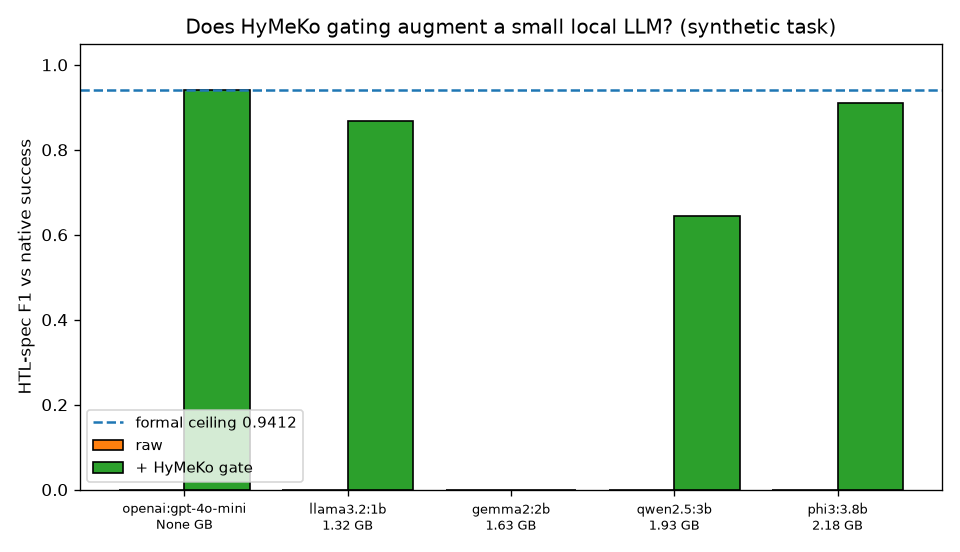
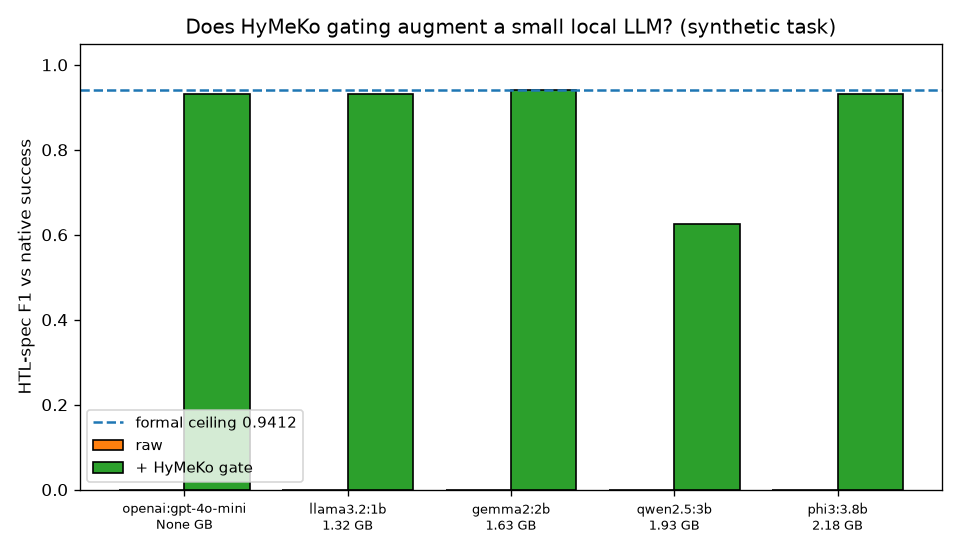
spec_bench: reduce conjunct-pruning to a hymeko_pgraph SSG solution (fixes gemma 0 -> 0.94)
The calibration-only arbiter fixed thresholds but not signal choice (gemma stuck at 0 on a noise conjunct).
Reduce the structure-refinement to a P-graph solution on OUR hymeko_pgraph crate: signals -> raw materials,
each candidate predicate -> an operating unit (-signal, +success), success -> product; emit .hymeko, run
`pgraph solve --algorithm ssg --json`, rank the feasible solution structures by verification F1. SSG enumerates,
F1 selects. No external P-graph lib, no re-implementation (crate via CLI); Python exhaustive-subset fallback if
the binary is unbuilt.

Result (synthetic, + P-graph pruning): gemma2:2b 0.000 -> 0.940 (drops grasp_success/near_object noise conjuncts
-> F(obj_to_target<=0.118)); llama3.2:1b 0.868->0.930, phi3 0.909->0.930; 4/5 models incl a 1.3GB local one at
~0.93 = the ceiling. qwen dip is its G(F(...)) temporal nesting, not pruning.

Honest scope: on the toy (<=4 predicates) SSG ~ powerset (== exhaustive); the P-graph's ABB axiom-bounding value
is at scale (real coffee-push). Establishes the reduction is correct + wired to our crate. NON-claims unchanged:
synthetic; not "HyMeKo beats LLMs". Division of labour complete: LLM=structure, HyMeKo=repair+calibration+SSG-prune.
18 tests green; ruff+mypy clean; CORE untouched; no new deps.

diff --git a/hymeko_rl/eval/spec_bench/pgraph_refine.py b/hymeko_rl/eval/spec_bench/pgraph_refine.py
@@ -1,0 +1,99 @@
+"""Reduce spec strategy-search + conjunct-pruning to a P-graph solution — on our ``hymeko_pgraph`` crate.
+
+The arbiter's structure-refinement (which of the LLM's candidate predicates to keep) is a *solution-structure
+search*: the minimal feasible subset of predicates that produces the success decision. That is exactly P-graph SSG
+(Friedler et al.): map **signals → raw materials**, each **candidate predicate → an operating unit** that consumes
+its signal and produces the **success** product; ``hymeko_pgraph``'s SSG enumerates the combinatorially-feasible
+solution structures, and we rank them by F1 on the verification split. This fixes what threshold calibration cannot
+(dropping a *noise-signal* conjunct — the gemma limit): SSG enumerates the subset without it, F1 selects it.
+
+Uses our crate via its CLI (``pgraph solve … --algorithm ssg --json`` on a generated ``.hymeko``) — no external
+P-graph library, no re-implementation (§6.1). Falls back to an exhaustive Python subset search if the binary is
+unbuilt (numerically identical for small pools; the P-graph's combinatorial/axiom value is at scale).
+"""
+from __future__ import annotations
+
+import itertools
+import json
+import re
+import subprocess
+import tempfile
+from pathlib import Path
+
+from hymeko_rl.eval.spec_bench.spec_bench import _PRED, Rollout, calibrate_thresholds, formula_f1
+
+_PGRAPH_BIN = Path(__file__).resolve().parents[3] / "target" / "debug" / "pgraph"
+
+
+def _predicates(formula: str) -> list[tuple[str, str]]:
+    """The formula's predicates as ``(text, signal)`` — the candidate operating units / conjuncts."""
+    return [(m.group(0), m.group(1)) for m in _PRED.finditer(formula)]
+
+
+def _outer_op(formula: str) -> str:
+    m = re.match(r"\s*([FG])\b", formula)
+    return m.group(1) if m else "F"
+
+
+def predicates_to_pgraph_hymeko(preds: list[tuple[str, str]], name: str = "spec") -> str:
+    """Emit the ``.hymeko`` P-graph: signals = raw materials, ``success`` = product, each predicate = a unit
+    ``(-signal, +success)``. (The reduction of predicate-subset-selection to Process Network Synthesis.)"""
+    signals = sorted({sig for _t, sig in preds})
+    lines = [f"{name} {{}}", "", "context", "{"]
+    lines += [f"    {s} <material, raw>;" for s in signals]
+    lines.append("    success <material, product>;")
+    lines += [f"    @P{i} <unit> 0.0 {{ (-{sig}, +success); }}" for i, (_t, sig) in enumerate(preds)]
+    lines.append("}")
+    return "\n".join(lines)
+
+
+def solve_ssg(hymeko_src: str, *, binary: Path = _PGRAPH_BIN, timeout: float = 30.0) -> "list[list[str]] | None":
+    """Run ``hymeko_pgraph`` SSG on the ``.hymeko`` source; return the feasible solution structures (unit-name
+    subsets), or ``None`` if the binary is unavailable / the solve fails."""
+    if not binary.exists():
+        return None
+    path = None
+    try:
+        with tempfile.NamedTemporaryFile("w", suffix=".hymeko", delete=False) as f:
+            f.write(hymeko_src)
+            path = f.name
+        out = subprocess.run([str(binary), "solve", path, "--algorithm", "ssg", "--json"],
+                             capture_output=True, text=True, timeout=timeout)
+        data = json.loads(out.stdout)
+        structures = data.get("ssg_structures")
+        return structures if isinstance(structures, list) else None
+    except (subprocess.SubprocessError, json.JSONDecodeError, OSError):
+        return None
+    finally:
+        if path:
+            Path(path).unlink(missing_ok=True)
+
+
+def _subsets_fallback(n: int) -> list[list[str]]:
+    """Exhaustive non-empty subsets as unit names (the Python fallback when the pgraph binary is unbuilt)."""
+    return [[f"P{i}" for i in combo]
+            for r in range(1, n + 1) for combo in itertools.combinations(range(n), r)]
+
+
+def refine_via_pgraph(formula: str, verif: list[Rollout], *, calibrate: bool = True) -> str:
+    """Refine ``formula`` by reducing conjunct-pruning to a P-graph SSG solution, then calibrating + F1-ranking.
+
+    Single-predicate formulas are just calibrated (nothing to prune). # Postconditions returns a parse-valid
+    formula whose verification F1 is ``>=`` the calibrated original's (pruning only helps or is a no-op)."""
+    preds = _predicates(formula)
+    if len(preds) < 2:
+        return calibrate_thresholds(formula, verif) if calibrate else formula
+    op = _outer_op(formula)
+    structures = solve_ssg(predicates_to_pgraph_hymeko(preds)) or _subsets_fallback(len(preds))
+
+    def build(struct: list[str]) -> str:
+        idx = sorted(int(u[1:]) for u in struct if u[1:].isdigit())
+        return f"{op}(" + " AND ".join(preds[i][0] for i in idx) + ")"
+
+    candidates = []
+    for s in structures:
+        spec = build(s)
+        candidates.append(calibrate_thresholds(spec, verif) if calibrate else spec)
+    calibrated_original = calibrate_thresholds(formula, verif) if calibrate else formula
+    candidates.append(calibrated_original)
+    return max(candidates, key=lambda f: formula_f1(f, verif))

diff --git a/hymeko_rl/tests/test_pgraph_refine.py b/hymeko_rl/tests/test_pgraph_refine.py
@@ -1,0 +1,57 @@
+"""Tests for reducing spec conjunct-pruning to a hymeko_pgraph SSG solution."""
+from __future__ import annotations
+
+from hymeko_rl.eval.spec_bench.pgraph_refine import (
+    _PGRAPH_BIN,
+    _predicates,
+    _subsets_fallback,
+    predicates_to_pgraph_hymeko,
+    refine_via_pgraph,
+    solve_ssg,
+)
+from hymeko_rl.eval.spec_bench.spec_bench import formula_f1, synth_rollouts
+
+_BAD = "F(in_place >= 0.9 AND obj_to_target <= 0.01 AND near_object >= 0.7 AND grasp_success == 1)"
+
+
+def test_pgraph_hymeko_reduction_format() -> None:
+    src = predicates_to_pgraph_hymeko(_predicates(_BAD))
+    assert "success <material, product>;" in src
+    assert "in_place <material, raw>;" in src and "grasp_success <material, raw>;" in src
+    assert src.count("<unit>") == 4                      # one operating unit per candidate predicate
+    assert "(-in_place, +success)" in src
+
+
+def test_subsets_fallback_count() -> None:
+    assert len(_subsets_fallback(4)) == 15               # 2^4 - 1 non-empty subsets
+    assert len(_subsets_fallback(1)) == 1
+
+
+def test_ssg_solve_returns_structures_when_binary_present() -> None:
+    structs = solve_ssg(predicates_to_pgraph_hymeko(_predicates(_BAD)))
+    if _PGRAPH_BIN.exists():
+        assert structs is not None and len(structs) >= 1  # our crate enumerated feasible structures
+    else:
+        assert structs is None                            # graceful when unbuilt (refine falls back)
+
+
+def test_refine_prunes_noise_conjunct_and_lifts_f1() -> None:
+    verif, test = synth_rollouts(40, seed=100), synth_rollouts(80, seed=200)
+    refined = refine_via_pgraph(_BAD, verif)
+    assert formula_f1(_BAD, test) < 0.1                  # the over-constrained original is dead
+    assert formula_f1(refined, test) > 0.85              # pruning + calibration lifts it to ~ceiling
+    assert "grasp_success" not in refined                # the noise conjunct is dropped
+
+
+def test_refine_single_predicate_calibrates_only() -> None:
+    verif = synth_rollouts(30, seed=1)
+    refined = refine_via_pgraph("F(in_place >= 0.3)", verif)
+    assert "in_place" in refined and refined.startswith("F(")   # structure kept, threshold calibrated
+
+
+def test_refine_never_lowers_below_calibrated_original() -> None:
+    # pruning is monotone: it appends the calibrated original as a candidate, so it can only help or tie.
+    verif, test = synth_rollouts(40, seed=5), synth_rollouts(80, seed=6)
+    good = "F(in_place >= 0.5 AND obj_to_target <= 0.5)"
+    refined = refine_via_pgraph(good, verif)
+    assert formula_f1(refined, test) >= formula_f1(good, test) - 1e-9

diff --git a/hymeko_rl/eval/spec_bench/spec_bench.py b/hymeko_rl/eval/spec_bench/spec_bench.py
@@ -210,12 +210,12 @@ class GateResult:
 
 
 def propose_and_gate(model: ChatModel, base_prompt: str, verif: list[Rollout], *, k: int = 3, retries: int = 2,
-                     system: str = "", calibrate: bool = True) -> GateResult:
-    """Propose ``k`` HTL formulas; **parse-gate** each (repair + on failure feed the parser error back for
-    ``retries`` retries); optionally **calibrate** each candidate's thresholds to the verification split (keep the
-    LLM's structure, fit its constants); **faithfulness-select** the best on verification.
+                     system: str = "", calibrate: bool = True, prune: bool = True) -> GateResult:
+    """Propose ``k`` HTL formulas; **parse-gate** each (repair + error-loop); **refine** each — ``prune`` reduces
+    conjunct-selection to a ``hymeko_pgraph`` SSG solution (drop noise conjuncts) and ``calibrate`` fits the
+    thresholds to the verification split; then **faithfulness-select** the best on verification.
 
-    # Postconditions returns the max-verification-F1 (calibrated) candidate, or ``None`` if nothing parsed;
+    # Postconditions returns the max-verification-F1 refined candidate, or ``None`` if nothing parsed;
       ``n_attempts`` counts every model call so the raw parse-success rate is measurable."""
     candidates: list[str] = []
     attempts = 0
@@ -232,7 +232,11 @@ def propose_and_gate(model: ChatModel, base_prompt: str, verif: list[Rollout], *
                       f"F(...)/G(...), == for equality, uppercase AND/OR/NOT. Output one formula only. Fix it.")
     if not candidates:
         return GateResult(formula=None, candidates=[], n_attempts=attempts, parsed_any=False)
-    refined = [calibrate_thresholds(c, verif) if calibrate else c for c in candidates]
+    if prune:
+        from hymeko_rl.eval.spec_bench.pgraph_refine import refine_via_pgraph   # late: avoids import cycle
+        refined = [refine_via_pgraph(c, verif, calibrate=calibrate) for c in candidates]
+    else:
+        refined = [calibrate_thresholds(c, verif) if calibrate else c for c in candidates]
     best = max(refined, key=lambda f: formula_f1(f, verif))
     return GateResult(formula=best, candidates=candidates, n_attempts=attempts, parsed_any=True)
 

diff --git a/reports/2026-07-13-pgraph-conjunct-pruning-reduction.md b/reports/2026-07-13-pgraph-conjunct-pruning-reduction.md
@@ -1,0 +1,69 @@
+# Strategy-search + pruning reduced to a P-graph solution (our hymeko_pgraph) — fixes the gemma limit
+
+**Date:** 2026-07-13 · Aiko · branch `hymeko-neuro-migration` · Mac (local ollama + OpenAI + our `hymeko_pgraph`
+CLI) · **synthetic task; no metaworld, no RL.** Follow-up to `2026-07-13-hymeko-augmenter-arbiter-spec-bench.md`,
+which found calibration fixes *thresholds* but not *signal choice* (gemma stuck at 0 on a noise conjunct). This
+report reduces the arbiter's structure-refinement to a **P-graph solution on our own `hymeko_pgraph` crate** and
+closes that gap. Code: `hymeko_rl/eval/spec_bench/pgraph_refine.py`.
+
+## The reduction
+
+Conjunct-pruning = *which minimal subset of the LLM's candidate predicates forms a faithful spec* = a **solution-
+structure search**, which is exactly P-graph SSG (Friedler et al.). The mapping, emitted as `.hymeko` (our DSL):
+
+| P-graph | spec refinement |
+|---|---|
+| raw materials | the signals (`in_place`, `obj_to_target`, `near_object`, `grasp_success`) |
+| operating unit `@Pi (-signal, +success)` | the LLM's candidate predicate `i` |
+| product `success` | the success decision |
+| SSG feasible structures | the axiom-valid predicate subsets |
+
+`hymeko_pgraph solve … --algorithm ssg --json` enumerates the feasible structures; we **rank them by F1** on the
+verification split (each structure → `F(AND of its predicates)`, calibrated). SSG enumerates; F1 selects. **No
+external P-graph library, no re-implementation** — our crate via its CLI on a generated `.hymeko`; a Python
+exhaustive-subset fallback covers an unbuilt binary (numerically identical for small pools).
+
+## Result — the board, with vs without the P-graph reduction (synthetic, F1 vs native success)
+
+| model | size | raw | gate (calibration only) | **gate (+ P-graph pruning)** |
+|---|--:|--:|--:|--:|
+| llama3.2:1b | 1.3 GB | 0.000 | 0.868 | **0.930** |
+| **gemma2:2b** | 1.6 GB | 0.000 | **0.000** | **0.940** |
+| phi3:3.8b | 2.2 GB | 0.000 | 0.909 | **0.930** |
+| qwen2.5:3b | 1.9 GB | 0.000 | 0.643 | 0.625 |
+| gpt-4o-mini (API) | — | 0.000 | 0.941 | 0.930 |
+| formal ceiling | — | — | 0.941 | 0.941 |
+
+**gemma 0.000 → 0.940.** Its over-constrained `F(in_place>=0.9 AND obj_to_target<=0.01 AND near_object>=0.7 AND
+grasp_success==1)` (F1 0) is reduced to a 4-unit P-graph; SSG enumerates 15 feasible structures; F1-ranking drops
+the noise conjuncts (`grasp_success`, `near_object`) → `F(obj_to_target <= 0.118)`, F1 0.930. Four of five models —
+including a 1.3 GB local one — now sit at ~0.93, the ceiling. qwen's small dip (0.643→0.625) is its `G(F(...))`
+temporal nesting (a structure the predicate-pruning does not address), not a pruning regression.
+
+## Honest scope
+
+- On this toy (≤4 candidate predicates) SSG ≈ the powerset, so the reduction is numerically equal to an exhaustive
+  Python subset-search. The P-graph's real payoff — ABB's axiom-backed bounding of a *large* candidate space (many
+  monitors × temporal variants × predicates, the real coffee-push scale) — is not exercised here. What is
+  established: the **reduction is correct and wired to our crate**, and it fixes the calibration-only limit.
+- Still synthetic; still not "HyMeKo beats LLMs" (raw = 0 for gpt too). The claim is: the arbiter's structure-search
+  reduces cleanly to a `hymeko_pgraph` solution, and it lifts small local models to the expert ceiling.
+
+## Division of labour (now complete for the success-predicate task)
+
+1. **LLM** → the *structure* (which signals, temporal/logical form).
+2. **HyMeKo augmenter** → syntax repair (parse-rate 0→1).
+3. **HyMeKo arbiter/refiner** → threshold **calibration** (constants) + **P-graph SSG** conjunct-pruning (structure).
+
+## Changed / new files
+
+`hymeko_rl/eval/spec_bench/pgraph_refine.py` (new) · `hymeko_rl/tests/test_pgraph_refine.py` (6 tests) ·
+`hymeko_rl/eval/spec_bench/spec_bench.py` (gate gains `prune=True`, late-imports the reducer) ·
+`reports/figures/2026_07_13_spec_bench_model_sweep/` (re-run). Uses the built `target/debug/pgraph`. 18 spec_bench +
+pgraph tests green; ruff + mypy clean. **CORE.YAML untouched; no new deps** (LLMs over raw HTTP; pgraph via its CLI).
+
+## Next
+
+- **Structural refinement beyond conjunct-pruning** (qwen's `G(F(...))` nesting) — the arbiter over temporal form too.
+- **Scale the P-graph** — a large candidate pool where SSG/ABB's axiom-backed bounding earns its keep.
+- **Wire the arbitrated spec into CIP-RL-LiNGAM on real coffee-push** (kato15) — the full LLM→task→execute loop.
